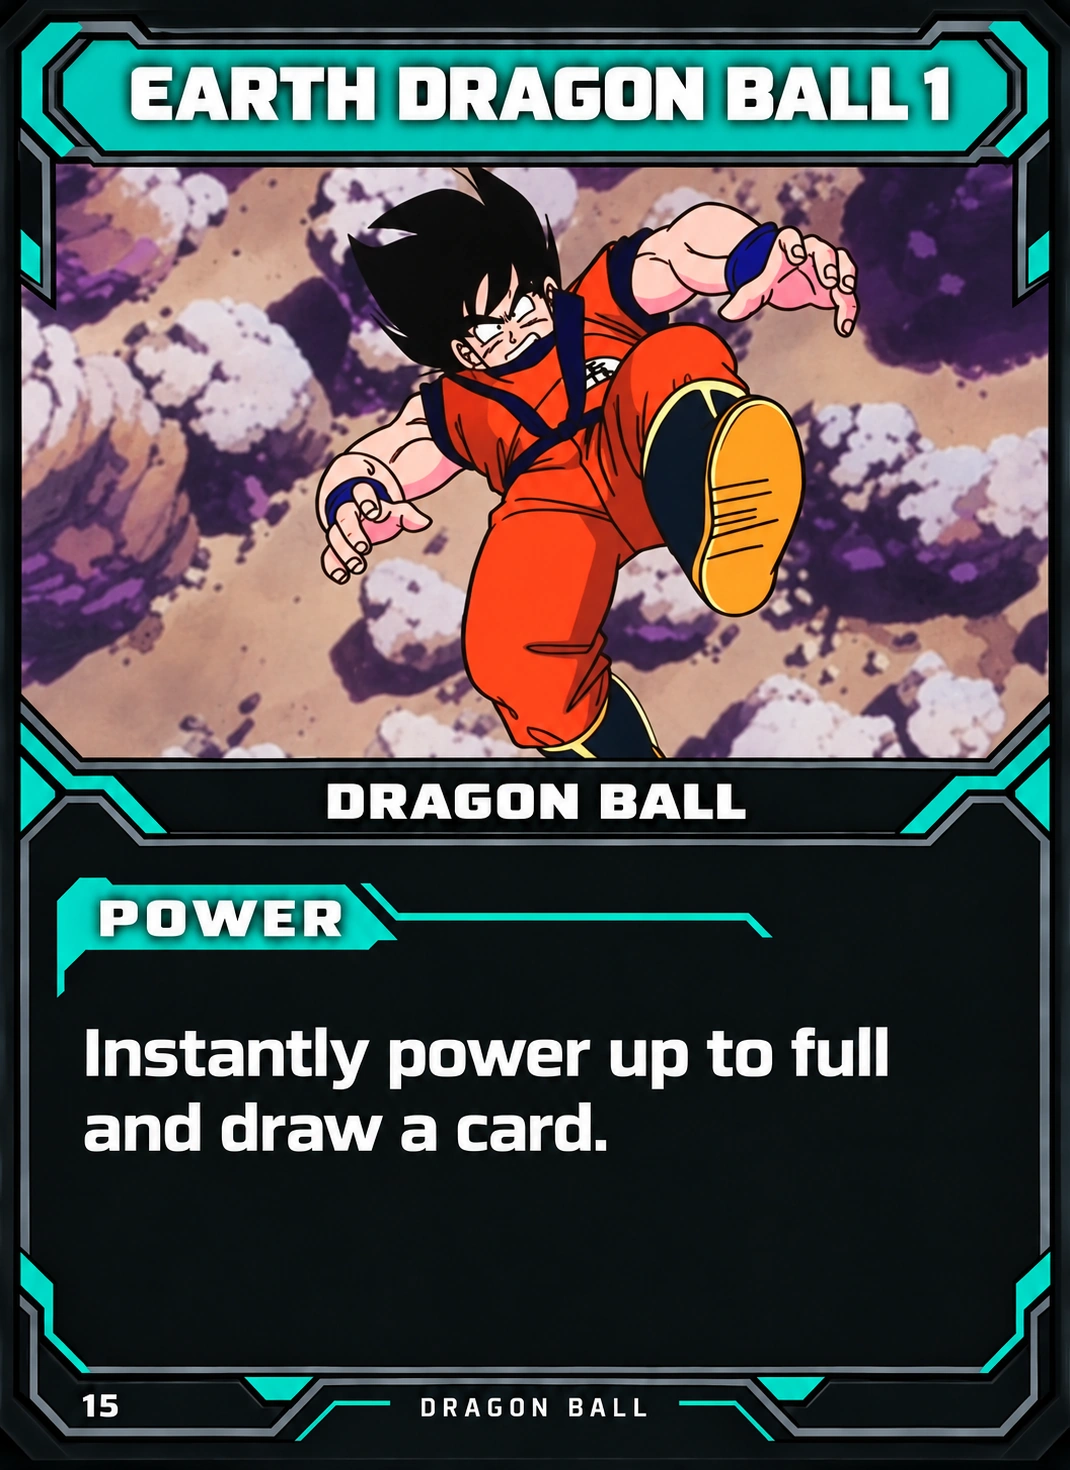
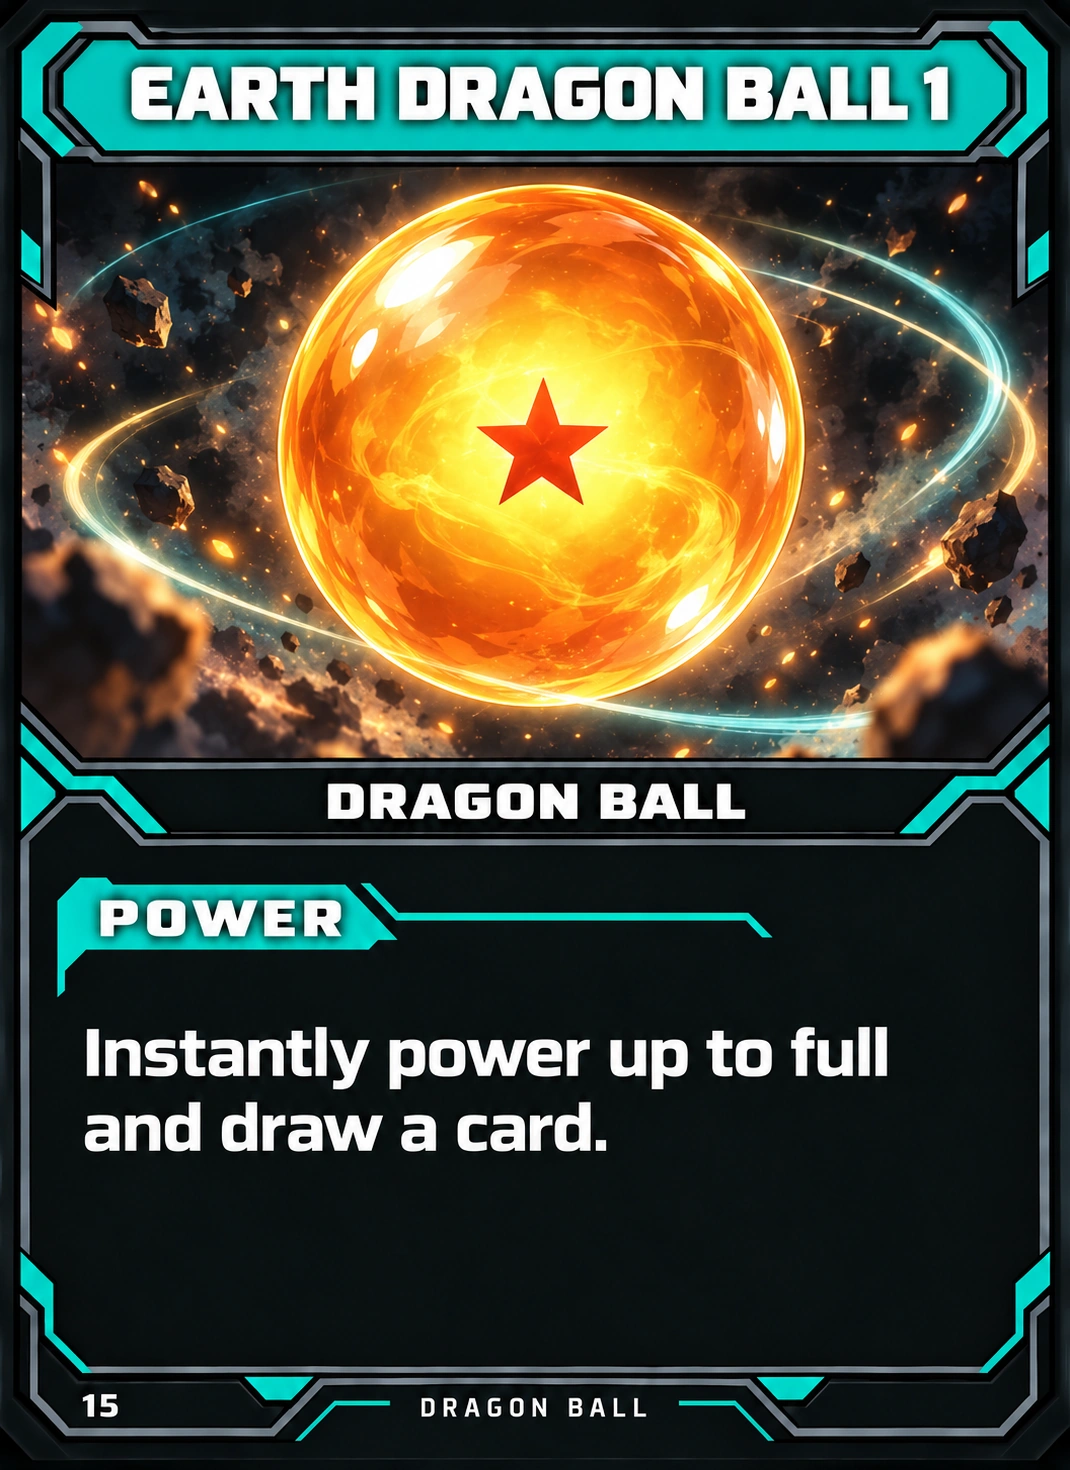
Replace Earth Dragon Ball character scenes with matching red-star orb artwork

diff --git a/public/cards/catalog.js b/public/cards/catalog.js
@@ -161,7 +161,7 @@ export const catalog = [
     "style": "Freestyle",
     "set": "Saiyan Saga",
     "status": "Ready",
-    "image": "/assets/cards/saiyan-015-earth-dragon-ball-1.webp?v=4bed510b",
+    "image": "/assets/cards/saiyan-015-earth-dragon-ball-1.webp?v=582883ff",
     "source": "https://retrodbzccg.com/card-images/saiyan-saga-commons/"
   },
   {
@@ -172,7 +172,7 @@ export const catalog = [
     "style": "Freestyle",
     "set": "Saiyan Saga",
     "status": "Ready",
-    "image": "/assets/cards/saiyan-016-earth-dragon-ball-2.webp",
+    "image": "/assets/cards/saiyan-016-earth-dragon-ball-2.webp?v=04824f85",
     "source": "https://retrodbzccg.com/card-images/saiyan-saga-commons/"
   },
   {
